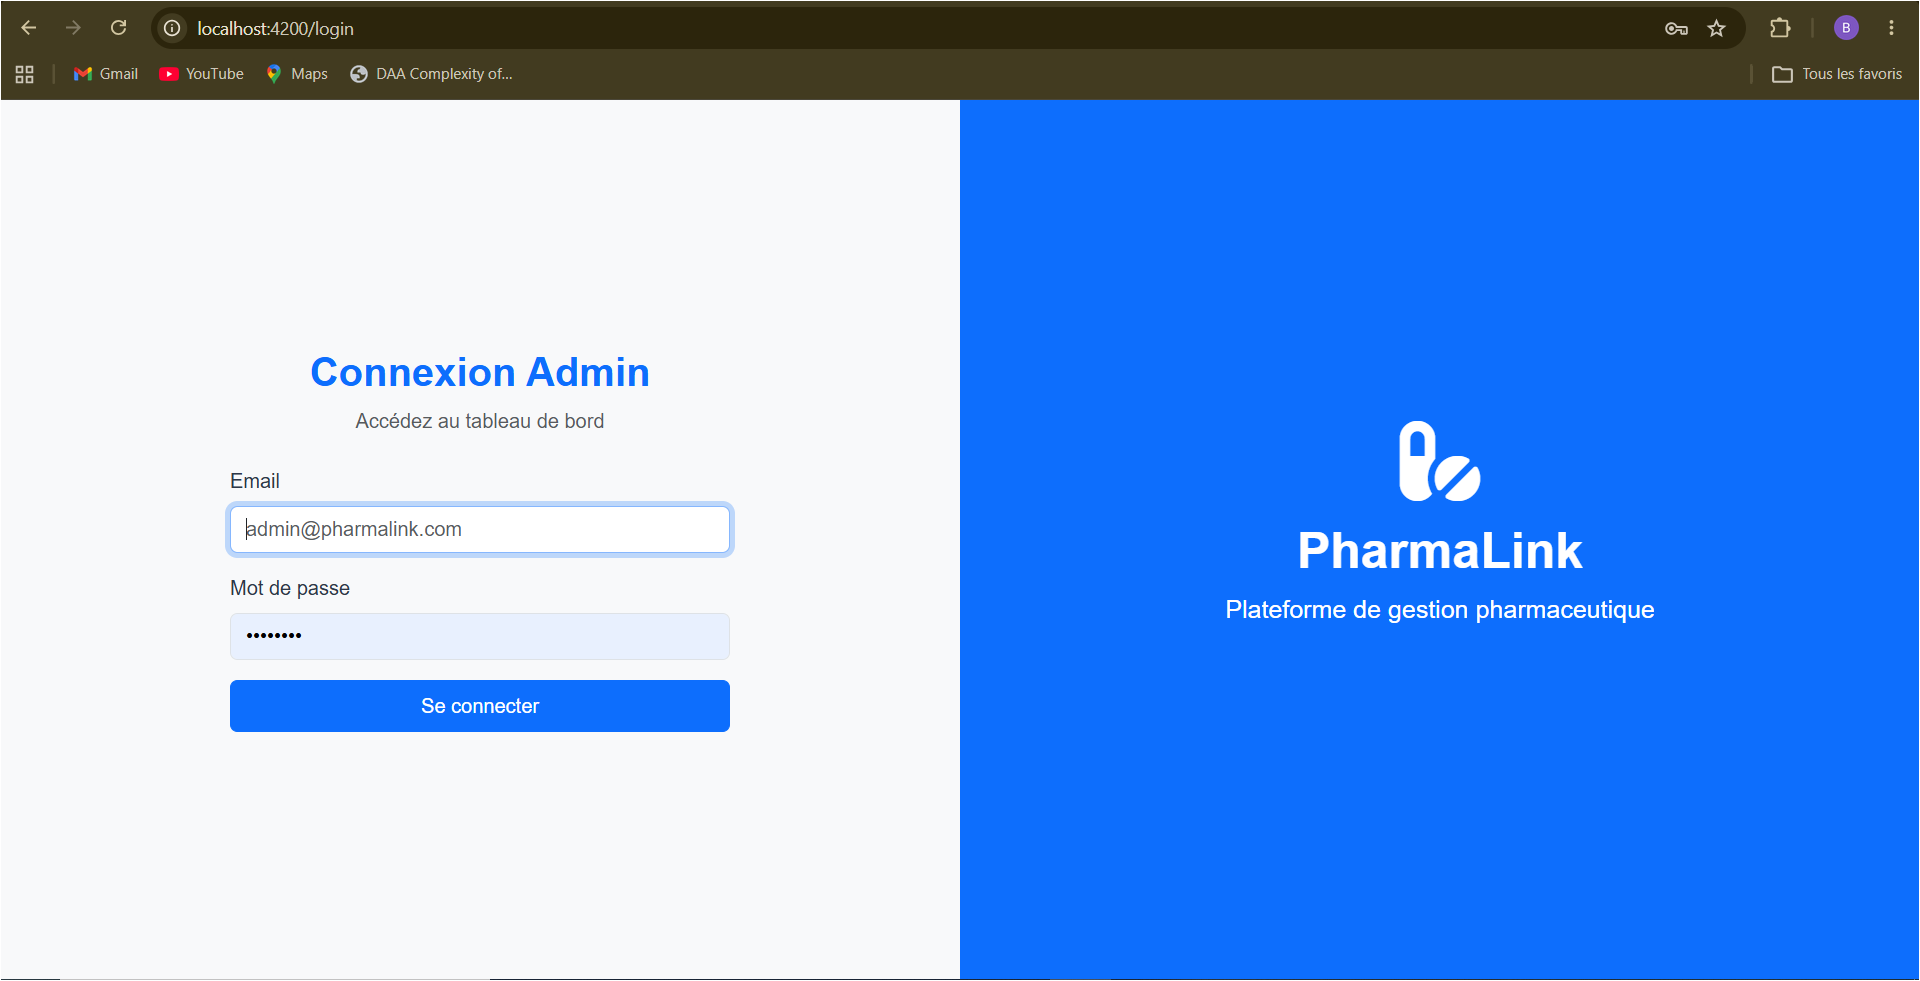
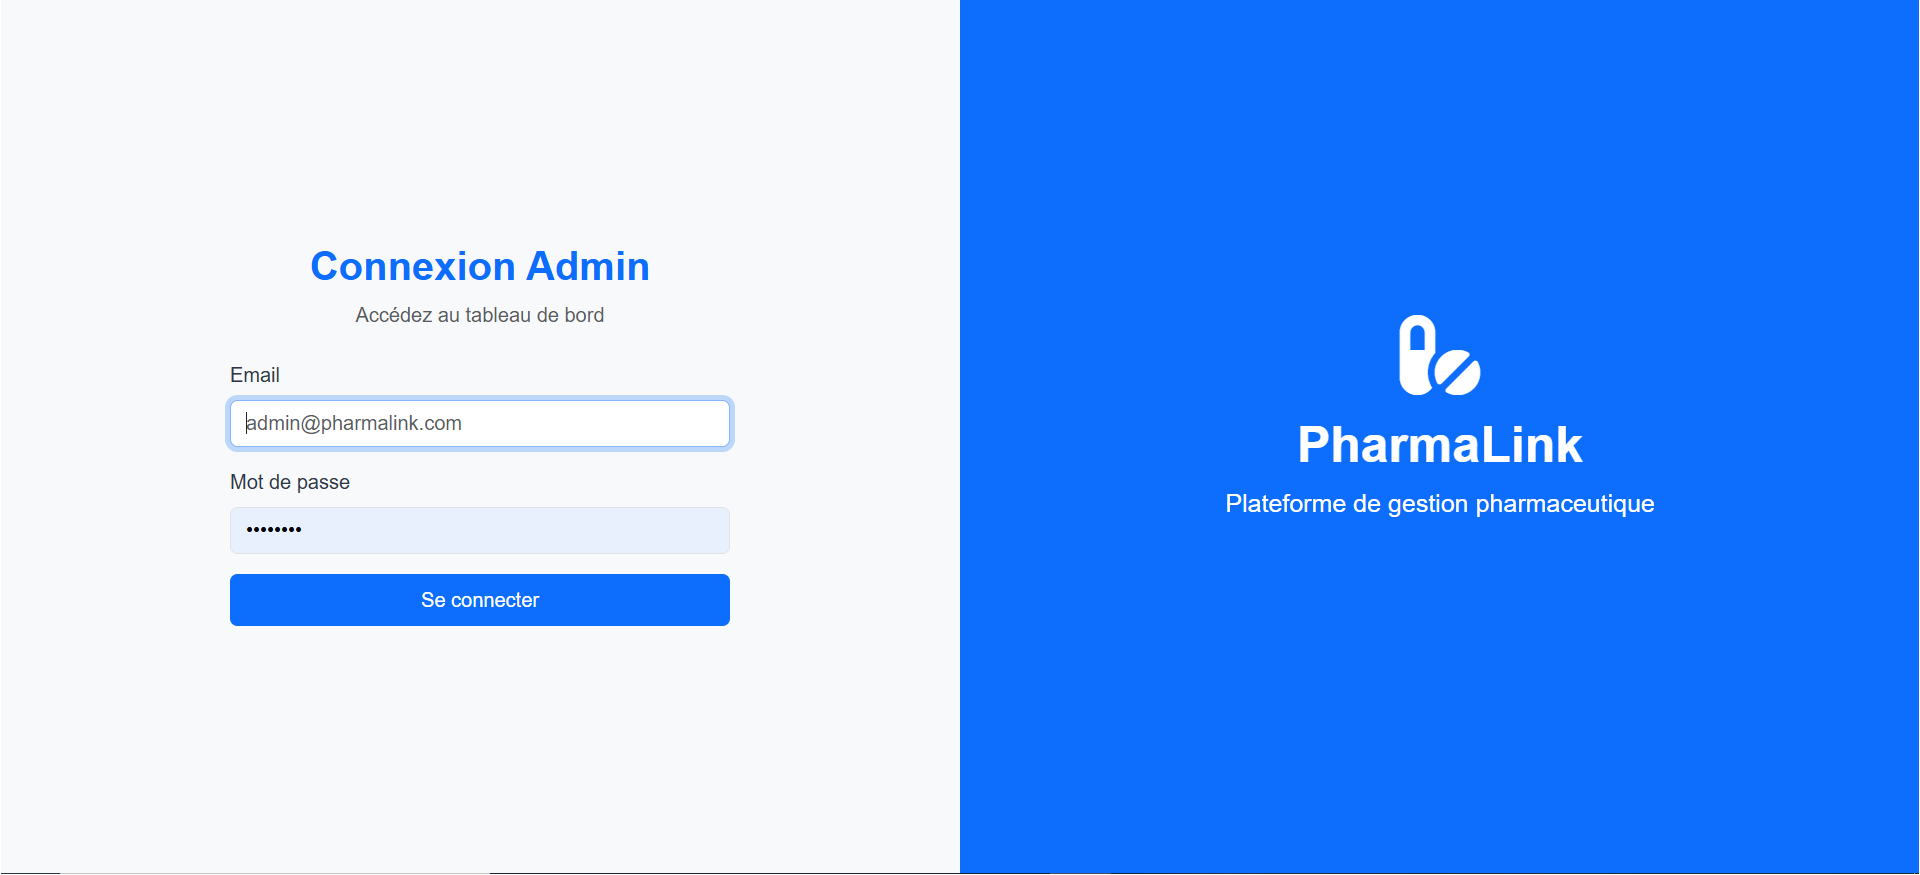
Restructure portfolio with proper documentation and cropped screenshots

diff --git a/README.md b/README.md
@@ -1,2 +1,121 @@
-# portfolio-projects
-A showcase of my software engineering projects including SaaS platforms, mobile applications, web systems, and AI/computer vision projects.
+<div align="center">
+
+# Mahamadou Allachi Boukar Allachi
+### Full-Stack Software Engineer
+
+![Laravel](https://img.shields.io/badge/Laravel-FF2D20?style=flat&logo=laravel&logoColor=white)
+![Angular](https://img.shields.io/badge/Angular-DD0031?style=flat&logo=angular&logoColor=white)
+![Flutter](https://img.shields.io/badge/Flutter-02569B?style=flat&logo=flutter&logoColor=white)
+![PostgreSQL](https://img.shields.io/badge/PostgreSQL-4169E1?style=flat&logo=postgresql&logoColor=white)
+![MySQL](https://img.shields.io/badge/MySQL-4479A1?style=flat&logo=mysql&logoColor=white)
+![JavaScript](https://img.shields.io/badge/JavaScript-F7DF1E?style=flat&logo=javascript&logoColor=black)
+![Power BI](https://img.shields.io/badge/Power_BI-F2C811?style=flat&logo=powerbi&logoColor=black)
+
+Niamey, Niger · M.Sc. Computer Engineering, Üsküdar University
+
+</div>
+
+I build web and mobile applications end-to-end — backend architecture,
+database design, and frontend UX — with a focus on production-ready,
+maintainable systems. I also work in computer vision research; see my
+[License Plate Detection & Enhancement](https://github.com/zolkid85/PlateDetectionDemo)
+project (Master's thesis).
+
+> **Note on source code:** the projects below are private, production
+> codebases built for real clients. This repository showcases the work
+> through descriptions and screenshots — code walkthroughs available on
+> request.
+
+## Contents
+
+- [PharmaLink Backoffice](#-pharmalink-backoffice--pharmacy-management-web-app)
+- [PharmaSwift](#-pharmaswift--pharmacy-delivery-app)
+- [ILM — Online Learning Platform](#-ilm--online-learning-platform)
+
+---
+
+## 🏥 PharmaLink Backoffice — Pharmacy Management Web App
+
+A web platform for pharmacists and administrators covering the full
+operational workflow of a pharmacy: point of sale, prescriptions,
+invoicing, suppliers, inventory, and accounting.
+
+**Stack:** Angular (standalone components, Signals) · Laravel · PostgreSQL/MySQL
+
+**Highlights**
+- **Point of Sale (POS)** redesigned from scratch, inspired by modern
+  retail POS systems (Square, Shopify POS) — fast checkout, real-time cart
+  and stock feedback
+- **Tax-compliant invoicing** (Niger CGI) — sequential, non-editable
+  invoice numbering (NIF/RCCM), QR code, and per-invoice integrity hash
+- **Activity log with chained integrity hashing** — every create/update/
+  delete is logged with a before/after diff (audit-trail grade
+  traceability)
+- App-wide toast and confirmation-dialog systems (replacing native
+  browser alerts/confirms)
+- Full sales, prescriptions, invoicing, supplier orders, inventory, and
+  accounting modules
+
+<table>
+<tr>
+<td><img src="assets/pharmacy/login.png" alt="Login"/></td>
+<td><img src="assets/pharmacy/pharmacist-dashboard.png" alt="Dashboard"/></td>
+</tr>
+<tr>
+<td><img src="assets/pharmacy/invoice-pdf.png" alt="Compliant invoice"/></td>
+<td><img src="assets/pharmacy/activity-log.png" alt="Activity log"/></td>
+</tr>
+</table>
+
+---
+
+## 💊 PharmaSwift — Pharmacy Delivery App
+
+A mobile app connecting customers with local pharmacies for prescription
+and product ordering, with real-time delivery tracking.
+
+**Stack:** Flutter · Laravel · MySQL/PostgreSQL · Firebase Cloud Messaging
+
+**Roles:** Client (browse, order, track) · Livreur (manage deliveries)
+
+**Highlights**
+- Pharmacy browsing with live product availability
+- Prescription upload and history
+- "Alternative products" suggestion when an item is out of stock
+- Real-time push notifications (order status, delivery updates)
+- Secure payment verification flow
+- Light/dark theme support
+
+*(mobile screenshots coming soon)*
+
+---
+
+## 🎓 ILM — Online Learning Platform
+
+A subscription-based e-learning platform covering the full school
+curriculum from **6ème to Terminale** (French secondary system), with
+parental follow-up and direct teacher interaction.
+
+**Stack:** Laravel · Angular · PostgreSQL/MySQL
+
+**Highlights**
+- Subscription-based course access, automatically scoped to the
+  student's grade level
+- Course content as **text, video, or PDF**
+- End-of-chapter **level quizzes**, with results and time-spent stats
+  shareable with parents
+- **Messaging space** with subject teachers + an open student **forum**
+- Per-course progress tracking
+- Dedicated **admin panel**: students, instructors, courses, enrollments,
+  subscriptions, and analytics
+
+<table>
+<tr>
+<td><img src="assets/elearning/course-catalog.png" alt="Course catalog"/></td>
+<td><img src="assets/elearning/subscription-plans.png" alt="Subscription plans"/></td>
+</tr>
+<tr>
+<td><img src="assets/elearning/student-progress.png" alt="Student progress"/></td>
+<td><img src="assets/elearning/admin-students.png" alt="Admin student management"/></td>
+</tr>
+</table>
